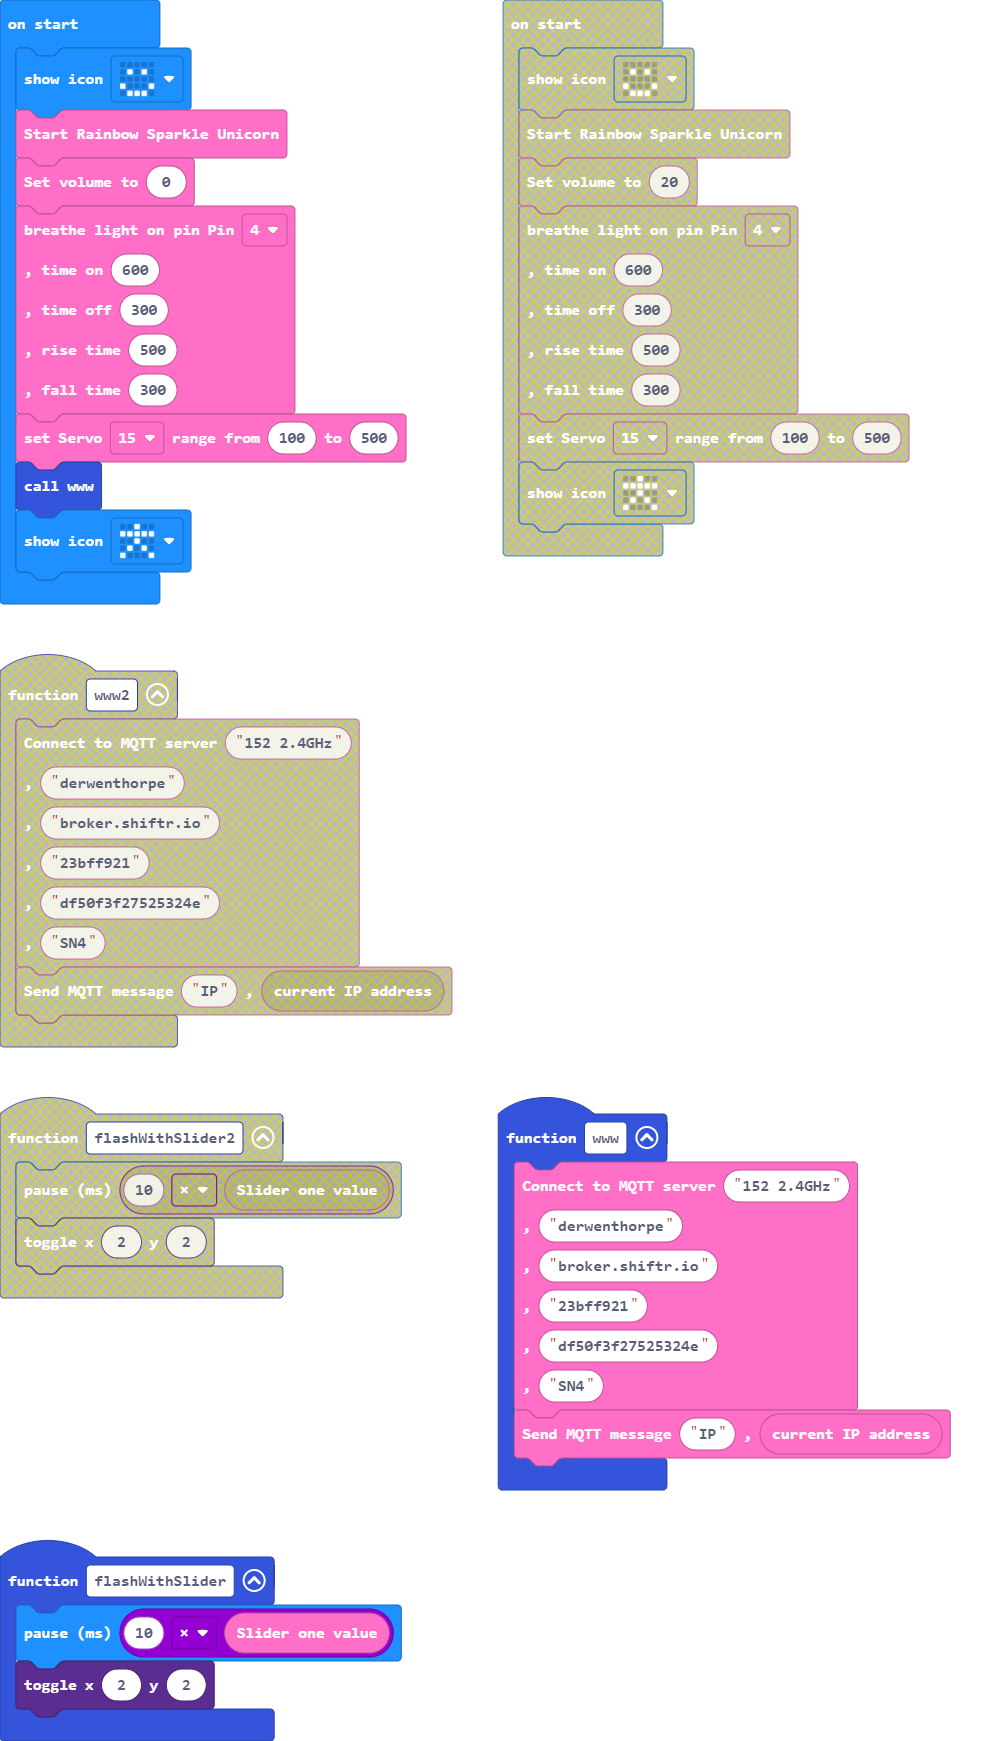
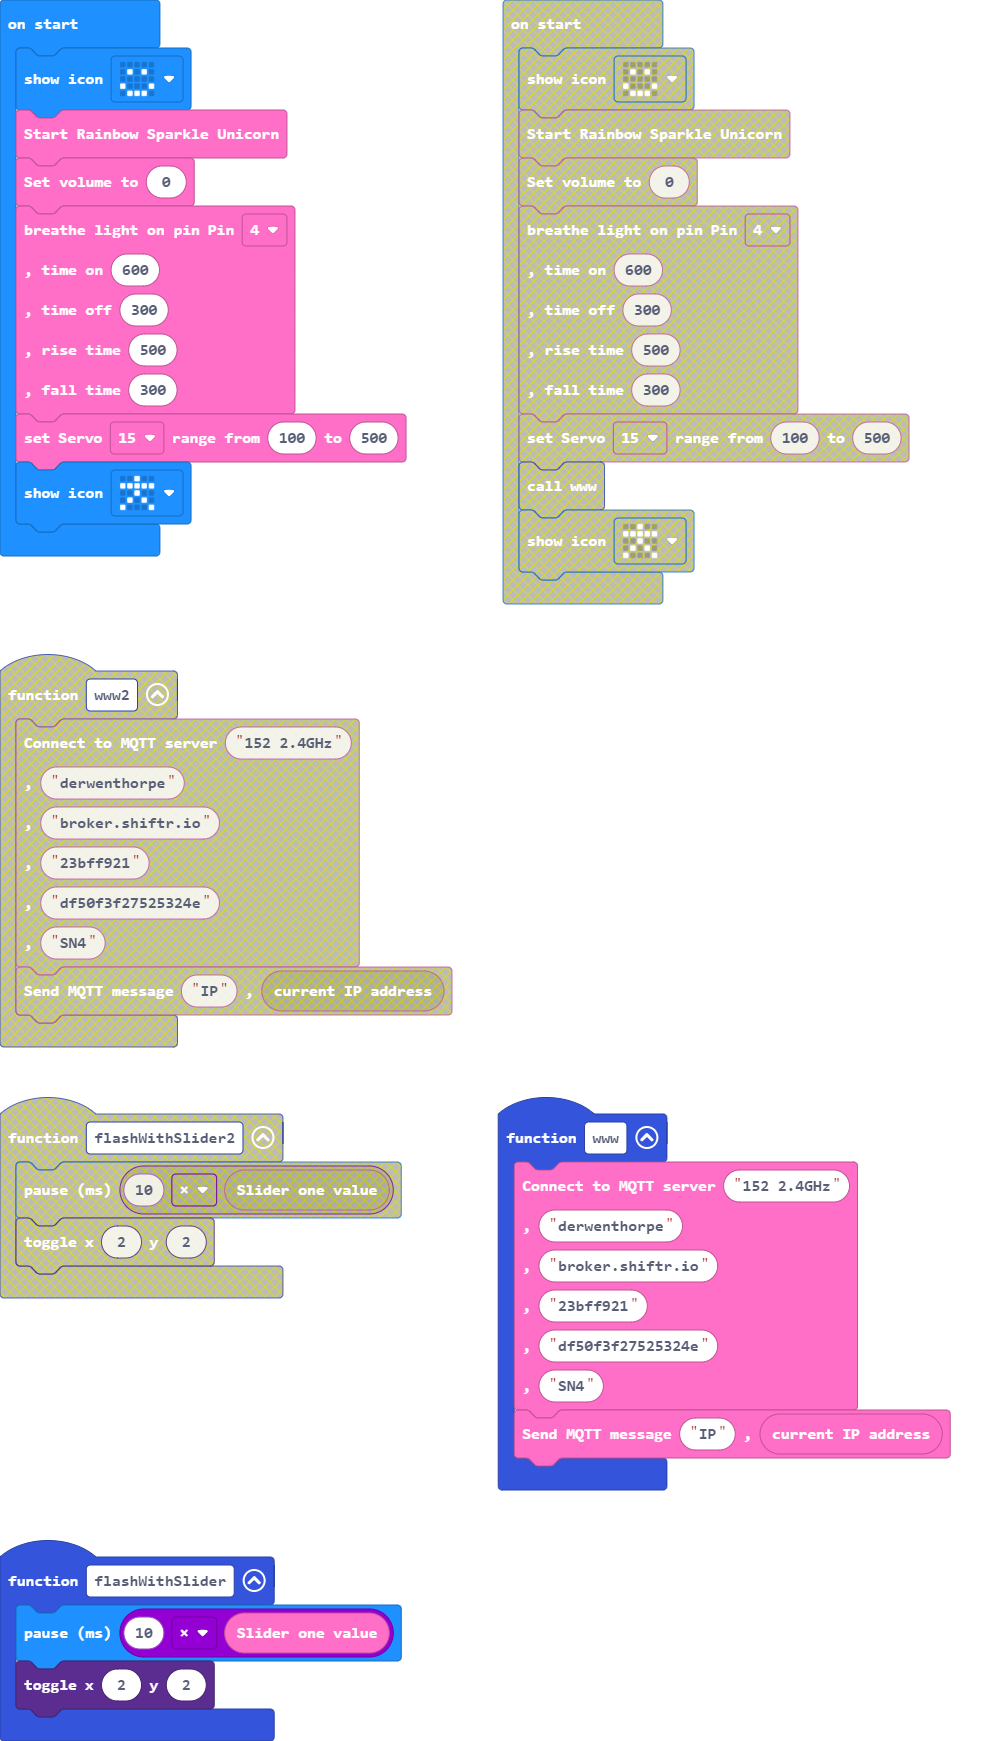
Update main.blocks, main.ts, UART.ts

Changed region(s): [[0.0, 0.2481, 0.2166, 0.3722], [0.495, 0.2481, 0.7116, 0.3722]]

diff --git a/UART.ts b/UART.ts
@@ -17,7 +17,7 @@ namespace RainbowSparkleUnicorn {
         if (checkMessage(msg) == true){
             parseRecievedMessage(msg);
         } else {
-            basic.showIcon(IconNames.Ghost);
+            led.toggle(4,4)
         }    
      })
 
@@ -31,7 +31,10 @@ namespace RainbowSparkleUnicorn {
             return false;
         }
 
-        if (message.split(",").length <= 2){
+        let X = message.split(",");
+        let Y = X.length;
+
+         if (Y < 2){
             return false;
         }
 
@@ -138,7 +141,7 @@ namespace RainbowSparkleUnicorn {
             control.raiseEvent(RAINBOW_SPARKLE_UNICORN_MQTT_CONNECTED,connected);            
        }
     }  catch(err) {   
-        basic.showString(err.message)
+        sendMessage(err.message)
     }   
     }
 

diff --git a/main.ts b/main.ts
@@ -65,5 +65,4 @@ Breathable.Breathable4,
 300
 )
 RainbowSparkleUnicorn.setServoRange(Servo.S15, 100, 500)
-www()
 basic.showIcon(IconNames.StickFigure)
